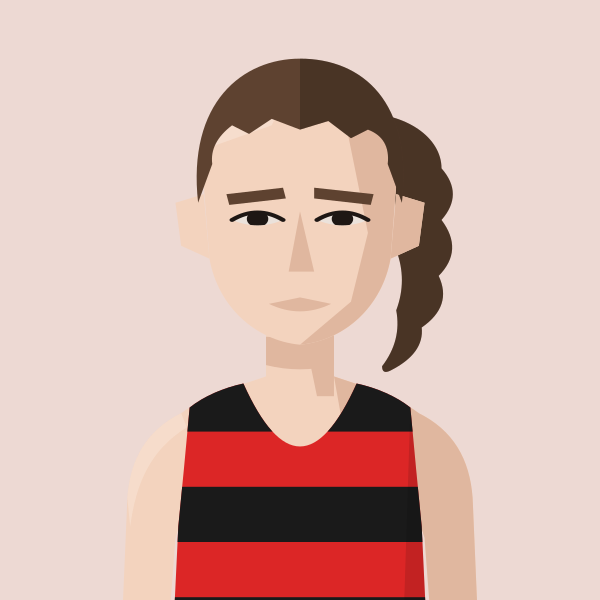
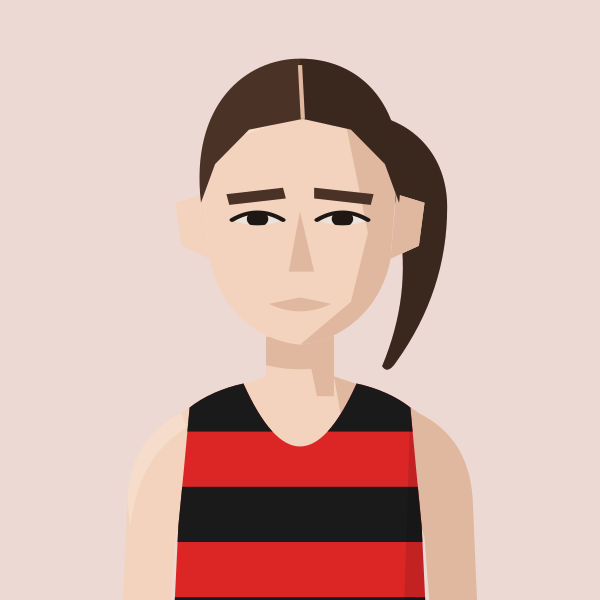
Georgie Grgec: sleek centre-parted hair pulled back into a ponytail
Claude-Session: https://claude.ai/code/session_01MgmDWhFqnSSnP4iBLKXUZC

diff --git a/files/index.html b/files/index.html
@@ -581,7 +581,7 @@ return m;})();
 const portraitFile=(name,club)=>{const k=normalizeNameForCompare(name||'').replace(/\s*\([^)]*\)$/,'');const a=PORTRAITS[k];if(a&&a.club===club)return a.file;const b=PORTRAITS[k+'@'+club];return b?b.file:null;};
 // Athlete header figure: superstar portrait if we have one, else a grey runner in the club vest, else the plain vest icon
 // Changes whenever any portrait changes (set by tools/build_og.py), so browsers fetch fresh images instead of old cached ones
-const PORTRAIT_V='b8287d8b';
+const PORTRAIT_V='f4128ec3';
 const AthletePortrait=({name,club,w,fill,onClick})=>{const[failed,setFailed]=useState(false);const file=portraitFile(name,club);const src=file?`/portraits/athletes/${file}.svg?v=${PORTRAIT_V}`:PORTRAIT_CLUBS.has(club)?`/portraits/clubs/${club.replace(/\//g,'').replace(/&/g,'and')}.svg?v=${PORTRAIT_V}`:null;if(!src||failed)return<div onClick={onClick} className={onClick?'cursor-pointer':''}><ClubShield club={club} size={w}/></div>;const h=Math.round(w*148/126),ih=Math.round(w*1.4);if(fill)return<div onClick={onClick} className="cursor-pointer" style={{alignSelf:'stretch',minHeight:h,aspectRatio:'126 / 148',flexShrink:0,position:'relative',borderRadius:4,overflow:'hidden'}}><img src={src} alt={file?`Portrait of ${name.replace(/\s*\([^)]*\)$/,'')}`:`Runner in ${CLUBS[club]?.name||club} vest`} style={{position:'absolute',top:0,left:0,display:'block',width:'100%',height:'auto'}} onError={()=>setFailed(true)}/></div>;return<div style={{width:w,height:h,borderRadius:4,overflow:'hidden',flexShrink:0}}><img src={src} alt={file?`Portrait of ${name.replace(/\s*\([^)]*\)$/,'')}`:`Runner in ${CLUBS[club]?.name||club} vest`} width={w} height={ih} style={{display:'block',width:w,height:ih}} onError={()=>setFailed(true)}/></div>;};
 const getClubVestSvg=(club)=>{
   const p="M3 0 L6 0 Q7 4 10 5 Q13 4 14 0 L17 0 L17 20 L3 20 Z";

diff --git a/tools/gen_portraits.py b/tools/gen_portraits.py
@@ -679,6 +679,6 @@ save("james-mcmullan", figure("THH", skin=1, hair="quiff", hair_colour="#7A5638"
 save("ben-hurley", figure("BEL", skin=1, hair=None, facial="thicktache", facial_colour="#5A4030", brow_colour="#5A4030", frown="worried", creases=True))
 save("alice-crane", figure("DMV", skin=1, hair="wavytie", hair_colour="#B8935E"))
 save("martina-conner", figure("BEL", skin=1, hair="ponytail", hair_colour="#C2A06A"))
-save("georgie-grgec", figure("HHH", skin=1, hair="wavytie", hair_colour="#5E4230"))
+save("georgie-grgec", figure("HHH", skin=1, hair="ponytail", hair_colour="#4A3226"))
 save("katie-snowden", figure("HHH", skin=1, hair="ponytail", hair_colour="#D2B27A"))
 save("kate-axford", figure("BEL", skin=1, hair="ponytail", hair_colour="#D9BC86", necklace="#C9A646"))
